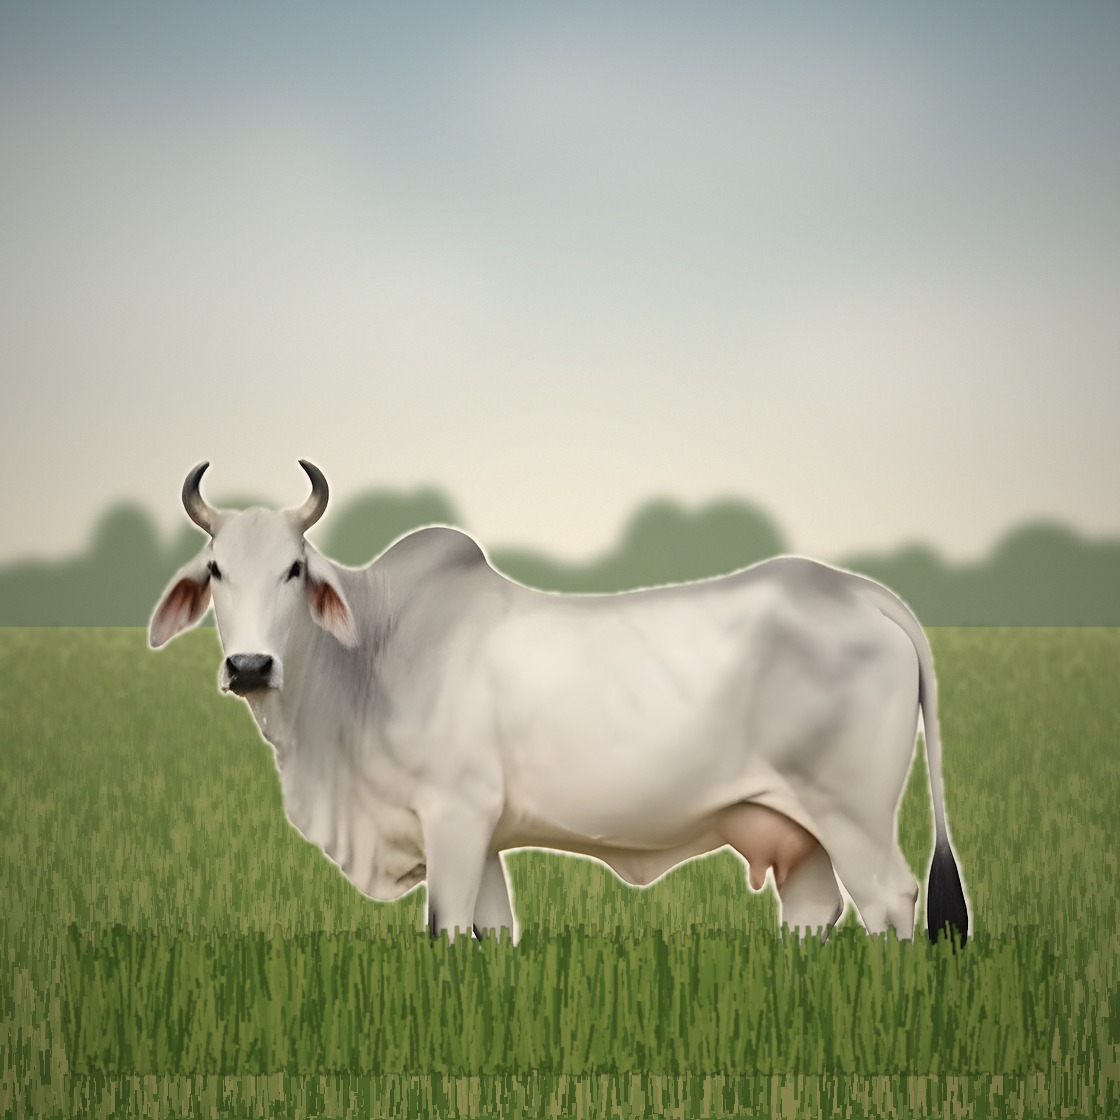
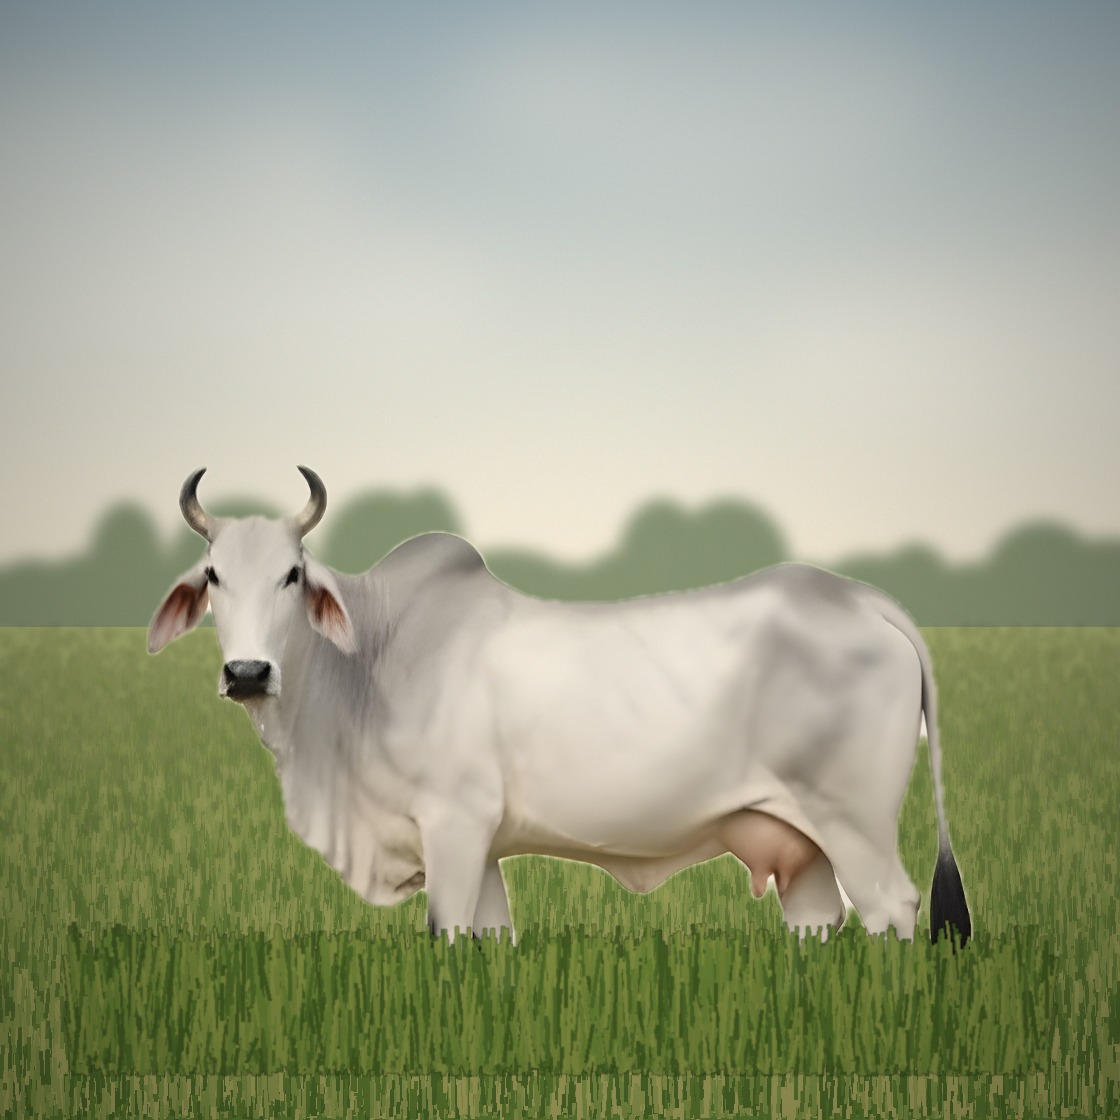
Cows: sharp HD pasture photos from AI-upscaled sources
Regenerate all 18 pasture cow photos at 1120 px from the Real-ESRGAN
upscaled breed photos, with the cut-out edge pulled in so no light
fringe from the white backdrop remains.

Claude-Session: https://claude.ai/code/session_01Bzj7MQXAPaFZK5pFk42E2E

diff --git a/scripts/cow-pasture.py b/scripts/cow-pasture.py
@@ -51,7 +51,7 @@ def cutout(path):
     kill[band:] = (greenish | pale)[band:]
     alpha[kill] = 0
     # the patch outline is a thin line touching the hooves: remove thin shapes in the bottom band
-    alpha[band:] = cv2.morphologyEx(alpha[band:], cv2.MORPH_OPEN, cv2.getStructuringElement(cv2.MORPH_ELLIPSE, (7, 7)))
+    alpha[band:] = cv2.morphologyEx(alpha[band:], cv2.MORPH_OPEN, cv2.getStructuringElement(cv2.MORPH_ELLIPSE, (13, 13)))
     # keep only the cow: the largest connected shape (drops the patch's leftover outline)
     n2, lbl2, st2, _ = cv2.connectedComponentsWithStats((alpha > 60).astype(np.uint8), 8)
     if n2 > 1:
@@ -67,6 +67,8 @@ def cutout(path):
     if os.path.exists(hd):
         rgb = np.asarray(Image.open(hd).convert('RGB'))
         alpha = cv2.resize(alpha, (rgb.shape[1], rgb.shape[0]), interpolation=cv2.INTER_CUBIC)
+        # pull the edge in a little so no light fringe from the white backdrop remains
+        alpha = cv2.erode(alpha, cv2.getStructuringElement(cv2.MORPH_ELLIPSE, (13, 13)))
         alpha = cv2.GaussianBlur(alpha, (0, 0), 1.2)
     out = np.dstack([rgb, alpha])
     ys, xs = np.where(alpha > 40)
